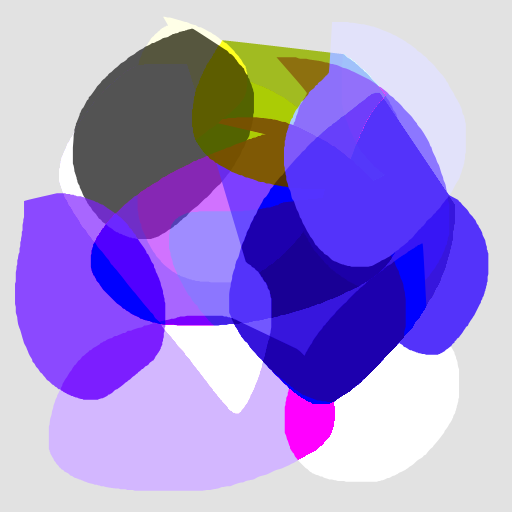
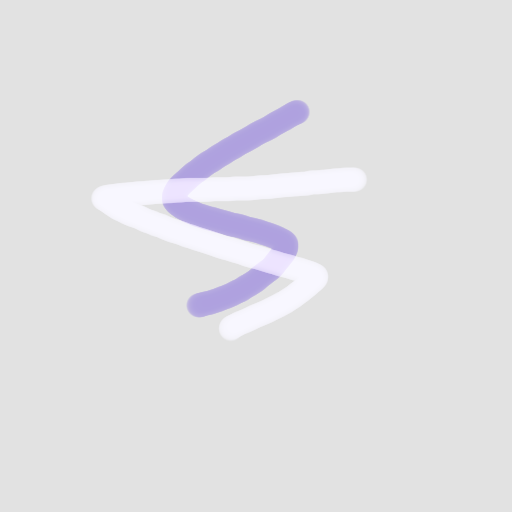
Update blend-mode fixture references

diff --git a/clip_loader.py b/clip_loader.py
@@ -15,9 +15,8 @@ v0.5 optimizations:
   鈥?Vectorized tile assembly (numpy reshape/transpose, no Python per-tile loop)
   鈥?save_png defaults to zlib level 1 (PNG cache; size cost ~10鈥?0%, much faster)
 
-Verified bit-equivalent (alpha-aware) against CSP's PNG export on:
-  - Illustration.clip   (512x512, 1 raster layer)
-  - Illustration4K.clip (4096x4096, 3 raster layers)
+Verified bit-equivalent (alpha-aware) against CSP's PNG export on the legacy
+single-layer MVP fixture and the public `Illustration4K.clip` baseline.
 """
 
 from __future__ import annotations

diff --git a/docs/analysis.md b/docs/analysis.md
@@ -3906,14 +3906,14 @@ Local verification accepted these changes. `cargo fmt --all --check` and
 `visible_px=0`; `Test_Color` remains `raw_max=1` / `visible_px=0`;
 `Test_Saturation` remains `raw_max=1` / `visible_px=0`; `Test_HSL` remains
 `raw_max=3`; `Test_AddGlowMultiply` remains `raw_max=1` / visible `0`; and
-`IllustrationBlendModes` remains `raw_max=7`. Using tracked
-`IllustrationBlendModes2.clip/png` exported from git, the current strict GPU
-output improves from the previous recorded `raw_max=8`, `visible_px=38080` to
-`raw_max=7`, `visible_px=16653`.
+`IllustrationBlendModes` remains `raw_max=7`. Using the current
+`IllustrationBlendModesB.clip/png` fixture, renamed from the old
+`IllustrationBlendModes2` sample after layer-by-layer PNG export, the current
+strict GPU output improves from the previous recorded `raw_max=8`,
+`visible_px=38080` to `raw_max=7`, `visible_px=16653`.
 
-Repository hygiene note from this review: the working tree's current
-`img/IllustrationBlendModes2.png` is not a valid CSP reference for the tracked
-`IllustrationBlendModes2.clip`; comparing against it gives `raw_max=250`.
-The working tree also contains many tracked `img/*.clip`/PNG deletions and new
-PSD/numbered PNG exports. Do not commit those assets without an explicit fixture
-cleanup decision.
+Repository hygiene decision after Rizum's fixture update: the old
+`IllustrationBlendModes2.clip` asset is removed, `IllustrationBlendModesB.*`
+is the current full-sample reference, and the numbered
+`IllustrationBlendModes*.png` plus `IllustrationBlendModesB*.png` exports are
+intentional progressive layer reveal references for future blend-mode tracing.

diff --git a/README.md b/README.md
@@ -68,13 +68,14 @@ The package script writes `clip_studio_importer.zip` and, by default, requires a
 
 ## Verification Samples
 
-The repository root contains `.clip` files and CSP-exported `.png` files used as ground truth. Important current samples include:
+The `img/` directory contains public `.clip` fixtures and CSP-exported `.png`
+ground truth. Larger client/reference files such as `Ref_*` and
+`Test_RealArt*` are local-only ignored fixtures.
 
-- `Illustration.clip/png` - single-layer MVP decode.
+Important current tracked samples include:
+
 - `Illustration4K.clip/png` - large multi-layer alpha-over baseline.
-- `Test_RealArt.clip/png` - real artwork smoke test for masks, groups, clipping, and folder semantics.
+- `IllustrationBlendModes.clip/png` and `IllustrationBlendModesB.clip/png` - blend-mode regression samples, with numbered PNG layer-reveal references.
 - `Test_ClippingEdge.clip/png` and `Test_ClippingEdge4K.clip/png` - root-level clipped edge alpha samples.
-- `Ref_Emuri_Live2D_2024.clip/png` - clipped Add Glow sample.
-- `Test_AddGlowMultiply.clip/png` - unresolved clipping group structure sample.
-- `Test_ToneCurve.clip/png` - adjustment/filter-layer regression sample.
-- `Ref_Terra404_Live2D.clip/png` - real artwork follow-up sample for mask and THROUGH group semantics.
+- `Test_AddGlowMultiply.clip/png` - clipped Add Glow plus Multiply regression sample.
+- `Test_ToneCurve.clip/png` and `Test_Gradiation.clip/png` - adjustment/filter-layer regression samples.

diff --git a/docs/native-code-architecture.md b/docs/native-code-architecture.md
@@ -409,16 +409,11 @@ Progress:
   `Test_VividLight.clip`, `Test_AddGlow.clip`, and `Test_Mask.clip` remain
   within `raw_max=1` / `premul_max=1`. `Test_AddGlowMultiply.clip` now routes
   without unsupported nodes and compares at `raw_max=5` / `premul_max=3`.
-- `IllustrationBlendModes.clip --gpu-normal-stack` and
-  `IllustrationBlendModes2.clip --gpu-normal-stack` now report
-  `unsupported=0`. C ABI comparisons remain diagnostic rather than exact:
-  `IllustrationBlendModes.png` is currently `raw_max=72`,
-  `premul_max=72`, `premul_visible_px=16946`; `IllustrationBlendModes2.png`
-  is currently `raw_max=9`, `premul_max=9`,
-  `premul_visible_px=38164`. Current trace evidence points
-  `IllustrationBlendModes.png` at a narrow Subtract -> Color Dodge -> Color Burn
-  interaction around `(266,244)` and `IllustrationBlendModes2.png` at a
-  Pin Light/Hue/Saturation chain around `(427,138)`.
+- `IllustrationBlendModes.clip --gpu-normal-stack` and the renamed
+  `IllustrationBlendModesB.clip --gpu-normal-stack` report `unsupported=0`.
+  Latest C ABI comparison metrics are tracked in `docs/AI_MEMORY.md`; this
+  older architecture note remains historical evidence for the Subtract ->
+  Color Dodge -> Color Burn and Pin Light/Hue/Saturation trace paths.
 
 Completed nineteenth milestone foundation: native adjustment/filter GPU pass.
 

diff --git a/docs/native-direct-load-rewrite.md b/docs/native-direct-load-rewrite.md
@@ -714,12 +714,11 @@ Eighteenth milestone progress:
   produces `[42,4,142,255]`, while CSP final is `[42,4,214,255]`. A simple
   near-white Color Dodge saturation threshold was rejected because exact
   counterexample pixels regress.
-- `IllustrationBlendModes2.clip --gpu-normal-stack` now reports
+- The renamed `IllustrationBlendModesB.clip --gpu-normal-stack` reports
   `unsupported=0` after adding Linear Burn, Darker/Lighter Color, Linear Light,
-  Pin Light, Exclusion, Brightness/Luminosity, and Divide. C ABI comparison
-  against `IllustrationBlendModes2.png` is currently `raw_max=9`,
-  `premul_max=9`, and `premul_visible_px=38164`. GPU prefix trace at
-  `(427,138)` identifies the residual as `PinLight -> Hue -> Saturation`.
+  Pin Light, Exclusion, Brightness/Luminosity, and Divide. Latest C ABI metrics
+  live in `docs/AI_MEMORY.md`; the GPU prefix trace at `(427,138)` identifies
+  the residual family as `PinLight -> Hue -> Saturation`.
   Raising HSL tiny-span quantization from `2/255` to `3/255` improves this
   image but regresses `Test_Saturation`, so that candidate is rejected.
 

diff --git a/docs/AI_MEMORY.md b/docs/AI_MEMORY.md
@@ -86,17 +86,17 @@ The accepted Blender add-on path is a Rust renderer core with `wgpu` GPU composi
 - Fifteenth milestone result: strict NORMAL GPU now supports clipping runs where a raster base is followed by raster clipped siblings at the same depth. `clip_runtime` packs the run as one `GpuNormalStackSource::ClippingRun`; `clip_gpu` renders the base into a white-transparent owned cache, applies clipped NORMAL siblings through a preserve-RGB pass that keeps the base alpha, then resolves the cache back through NORMAL alpha-over. `Test_Clipping.clip --gpu-normal-stack` now reports `sources=2`, `raster_resources=2`, `unsupported=0`, and host reads return real pixels. `Test_ClippingEdge.clip --gpu-normal-stack` reports `sources=1`, `raster_resources=2`, `unsupported=0`, alpha sum matches the CSP PNG, and transparent pixels stay white RGB with alpha 0.
 - Sixteenth milestone result: strict GPU now supports owned folder/container isolation for supported child stacks. `clip_gpu::GpuNormalStackSource::Container` recursively renders child sources into a white-transparent cache, then resolves that cache into the parent stack with container opacity, optional container mask, and a container blend mode. `clip_runtime` uses a recursive strict selector, treats the root container as structural pass-through, and represents non-root containers whose `LayerComposite` maps to a supported raster blend as container sources. GPU unit tests lock container-cache opacity and Multiply container resolve, selector tests lock folder source shape, and a real-raster synthetic e2e test wraps `Test_Clipping.clip`'s actual Paper/raster/clipped-raster stack in a NORMAL folder and verifies exact equality with the flat output. `clip_cli --plan-only` now prints metadata/planned nodes without triggering host render, which is useful for scanning large references.
 - Seventeenth milestone result: strict GPU now supports `LayerComposite=30` THROUGH groups. `clip_runtime` maps THROUGH containers to `GpuNormalStackSource::ThroughGroup`; `clip_gpu` renders their children against the parent stack contribution, then resolves the before/after delta with group opacity and optional mask. Verification: the GPU unit test locks opacity blending, the runtime selector test locks THROUGH source shape, `Test_FolderNested.clip --gpu-normal-stack` and `Test_FolderVisibility.clip --gpu-normal-stack` both report `unsupported=0`, and C ABI full-image comparison against CSP PNGs is `raw_max=1` / `premul_max=1`.
-- Eighteenth milestone progress: ordinary raster `LayerComposite=1` Darken, `2` Multiply, `3` Color Burn, `4` Linear Burn, `5` Subtract, `6` Darker Color, `7` Lighten, `8` Screen, `9` Color Dodge, `10` Glow Dodge, `11` Add, `12` Add Glow, `13` Lighter Color, `14` Overlay, `15` Soft Light, `16` Hard Light, `17` Vivid Light, `18` Linear Light, `19` Pin Light, `20` Hard Mix, `21` Difference, `22` Exclusion, `23` Hue, `24` Saturation, `25` Color, `26` Brightness/Luminosity, and `36` Divide are supported in the strict GPU path. `GpuNormalRasterSource` carries a blend mode; `clip_gpu` has byte-domain passes for Add Glow, Color Burn, Color Dodge, and Glow Dodge plus a standard blend-over pass for the remaining modes. The standard pass quantizes the pure blend target to the u8 grid before alpha-over except for Multiply, which keeps the unquantized W3C product so semi-transparent Multiply edges match the Python/CSP reference within one LSB; Subtract additionally keeps a one-LSB blend target for partially transparent channels where quantized source and destination are equal, matching CSP's boundary residue before Color Dodge amplification. Clipped standard preserve mirrors these Multiply and Subtract exceptions. Darker Color and Lighter Color choose source/destination with Rec.709 luma (`0.2126/0.7152/0.0722`), while Hue/Saturation/Color/Brightness HSL blend modes use CSP's sample-backed luminosity weights (`0.3/0.6/0.1`) and quantize `set_sat` tiny spans (`max-min <= 2/255`) to min/max channel membership. Hue additionally floors the final writeback for partially transparent Hue sources after the standard blend calculation and ceils the minimum channel after set_lum when the quantized base saturation span is greater than `2/255`; Saturation additionally ceils the minimum output channel after the high-end luminosity clamp only when the quantized base span is greater than `4/255`; near-neutral spans stay on the older tiny-span path. Clipping runs now allow a non-NORMAL base and all currently supported clipped raster blend modes: the base renders into its owned cache with NORMAL, clipped standard modes use the standard preserve shader, clipped Add Glow/Color Burn/Color Dodge/Glow Dodge use a byte-domain preserve shader, and the completed cache resolves to the parent through the base blend mode. Add Glow's byte-domain partial-alpha path rounds the carry term but floors the first RGB partial mix when resolving into a partial-alpha destination, keeping opaque destinations rounded. The NORMAL alpha-over pass explicitly rounds outputs to the u8 grid before writing `Rgba8Unorm`, avoiding backend-dependent UNORM truncation in later byte-domain passes. C ABI full-image comparisons against CSP PNGs: `Test_HardMix`, `Test_ColorBurn`, `Test_GlowDodge`, `Test_ColorDodge`, `Test_FolderNested`, `Test_FolderVisibility`, `Test_Clipping`, `Test_AddGlow`, and `Test_SoftLight` exact; `Test_Hue` `raw_max=1` / `premul_max=1`; `Test_Saturation` `raw_max=1` / `visible_px=0`; `Test_Color` `raw_max=1` / `visible_px=0`; `Test_VividLight` `raw_max=1` / `premul_max=1` on 111 pixels; `Test_Mask` exact; `Test_AddGlowMultiply` `raw_max=1` / `premul_max=1` / visible `0`. `IllustrationBlendModes.clip --gpu-normal-stack` and `IllustrationBlendModes2.clip --gpu-normal-stack` both report `unsupported=0`. C ABI comparisons: `IllustrationBlendModes.png` is now `raw_max=7`, `premul_max=7`, `premul_visible_px=1008`; `IllustrationBlendModes2.png` is currently `raw_max=7`, `premul_max=7`, `premul_visible_px=16653`, with the remaining max still the known Pin Light/Hue/Saturation residual rather than an exact match.
+- Eighteenth milestone progress: ordinary raster `LayerComposite=1` Darken, `2` Multiply, `3` Color Burn, `4` Linear Burn, `5` Subtract, `6` Darker Color, `7` Lighten, `8` Screen, `9` Color Dodge, `10` Glow Dodge, `11` Add, `12` Add Glow, `13` Lighter Color, `14` Overlay, `15` Soft Light, `16` Hard Light, `17` Vivid Light, `18` Linear Light, `19` Pin Light, `20` Hard Mix, `21` Difference, `22` Exclusion, `23` Hue, `24` Saturation, `25` Color, `26` Brightness/Luminosity, and `36` Divide are supported in the strict GPU path. `GpuNormalRasterSource` carries a blend mode; `clip_gpu` has byte-domain passes for Add Glow, Color Burn, Color Dodge, and Glow Dodge plus a standard blend-over pass for the remaining modes. The standard pass quantizes the pure blend target to the u8 grid before alpha-over except for Multiply, which keeps the unquantized W3C product so semi-transparent Multiply edges match the Python/CSP reference within one LSB; Subtract additionally keeps a one-LSB blend target for partially transparent channels where quantized source and destination are equal, matching CSP's boundary residue before Color Dodge amplification. Clipped standard preserve mirrors these Multiply and Subtract exceptions. Darker Color and Lighter Color choose source/destination with Rec.709 luma (`0.2126/0.7152/0.0722`), while Hue/Saturation/Color/Brightness HSL blend modes use CSP's sample-backed luminosity weights (`0.3/0.6/0.1`) and quantize `set_sat` tiny spans (`max-min <= 2/255`) to min/max channel membership. Hue additionally floors the final writeback for partially transparent Hue sources after the standard blend calculation and ceils the minimum channel after set_lum when the quantized base saturation span is greater than `2/255`; Saturation additionally ceils the minimum output channel after the high-end luminosity clamp only when the quantized base span is greater than `4/255`; near-neutral spans stay on the older tiny-span path. Clipping runs now allow a non-NORMAL base and all currently supported clipped raster blend modes: the base renders into its owned cache with NORMAL, clipped standard modes use the standard preserve shader, clipped Add Glow/Color Burn/Color Dodge/Glow Dodge use a byte-domain preserve shader, and the completed cache resolves to the parent through the base blend mode. Add Glow's byte-domain partial-alpha path rounds the carry term but floors the first RGB partial mix when resolving into a partial-alpha destination, keeping opaque destinations rounded. The NORMAL alpha-over pass explicitly rounds outputs to the u8 grid before writing `Rgba8Unorm`, avoiding backend-dependent UNORM truncation in later byte-domain passes. C ABI full-image comparisons against CSP PNGs: `Test_HardMix`, `Test_ColorBurn`, `Test_GlowDodge`, `Test_ColorDodge`, `Test_FolderNested`, `Test_FolderVisibility`, `Test_Clipping`, `Test_AddGlow`, and `Test_SoftLight` exact; `Test_Hue` `raw_max=1` / `premul_max=1`; `Test_Saturation` `raw_max=1` / `visible_px=0`; `Test_Color` `raw_max=1` / `visible_px=0`; `Test_VividLight` `raw_max=1` / `premul_max=1` on 111 pixels; `Test_Mask` exact; `Test_AddGlowMultiply` `raw_max=1` / `premul_max=1` / visible `0`. `IllustrationBlendModes.clip --gpu-normal-stack` and `IllustrationBlendModesB.clip --gpu-normal-stack` both report `unsupported=0`. C ABI comparisons: `IllustrationBlendModes.png` is now `raw_max=7`, `premul_max=7`, `premul_visible_px=1008`; `IllustrationBlendModesB.png` is currently `raw_max=7`, `premul_max=7`, `premul_visible_px=16653`, with the remaining max still the known Pin Light/Hue/Saturation residual rather than an exact match.
 - `clip_cli --gpu-trace-pixel <x> <y>` is a developer-only native GPU prefix tracer. It reuses the same strict GPU renderer and now prints the sampled RGBA before and after each selected top-level source, plus the source/mask pixel inputs for that source; it is diagnostic tooling, not a CPU oracle or fallback compositor.
 - `clip_cli --dump-layer-window <id> <x> <y> <radius>` is a developer-only decoded-source probe for inspecting one raster layer's source RGBA neighbourhood. It is diagnostic tooling, not a compositor, oracle, fallback, or renderer path.
 - `clip_cli --gpu-support-check` runs a metadata-only strict native stack selector and reports source/unsupported counts plus planned raster/mask resource size stats without decoding raster/mask tile pixels, creating a GPU device, or rendering an image. Its text output labels max raster/mask resources and unsupported items with `.clip` layer names when available, for example `max_raster_layer=10 [Layer 1]`; missing max layer ids display as `-`. `clip_cli --gpu-support-json` emits the same support/resource/unsupported-node data as pure JSON for automation and issue capture, including `.clip` layer names for unsupported nodes and max raster/mask resource layer ids when available. These are selector diagnostics only, not runtime fallbacks or compositor paths. A small `Test_*.clip` scan excluding large 4K/RealArt/AddGlowMultiply files currently reports no unsupported nodes; `Test_RealArt.clip` completes support-check quickly with `sources=1`, `unsupported=0`, `rasters=343`, `raster_bytes=33476800000`, `masks=6`, and `mask_bytes=150994944`. The selector now supports clipping runs where a supported non-through container/folder is the clipping base followed by raster clipped siblings; `Ref_绫音Aya_Live2D.clip --gpu-support-json` reports `unsupported_count=0` after routing that structure as `ContainerClippingRun`.
-- `clip_cli --compare-png <ref.png>` is the reusable native/CSP PNG verifier. It renders through `ClipSession::read_rgba8_region()` and reports raw plus premultiplied byte-domain max location, mean, diff-pixel, and visible-pixel metrics; it is developer verification only, not a CPU compositor, oracle, fallback, or post-processing path. Current CLI checks: `IllustrationBlendModes` `raw_max=7` / `premul_max=7`, `IllustrationBlendModes2` `raw_max=7` / `premul_max=7` / visible `16653`, `Test_AddGlowMultiply` `raw_max=1` / `premul_max=1` / visible `0`, `Illustration4K` `raw_max=1` / `raw_visible_px=0` / `premul_max=2`, `Test_ToneCurve` exact, `Test_Gradiation` `raw_max=10` / `premul_max=10`, `Test_HSL` `raw_max=3` / `premul_max=3`, `Test_HSL2` exact, `Test_HSL3`/`4`/`5` `raw_max=1`, `Test_ Grayscale` exact, `Test_Monochrome` exact, `Test_ColorDodge` exact, `Test_ColorBurn` exact, `Test_SoftLight` exact, `Test_AddGlow` exact, `Test_Clipping` exact, `Test_Hue` `raw_max=1`, `Test_Color` `raw_max=1` / `visible_px=0`, and `Test_Saturation` `raw_max=1` / `visible_px=0`.
-- Current trace evidence: `IllustrationBlendModes.clip` former max `(266,244)` is routed through `Multiply -> Overlay -> Subtract -> ColorDodge -> ColorBurn`; the key fixed step is `Subtract before=[218,203,252,255] src=[197,182,252,253] after=[23,22,3,255]`, where the blue channel keeps a one-LSB Subtract blend target because quantized source and destination are equal and the source alpha is partial. This gives `ColorDodge before=[23,22,3,255] src=[197,182,252,214] after=[88,67,214,255]` and final `ColorBurn ... final=[42,4,214,255]`, matching CSP at that pixel. The broad hypotheses remain rejected: a simple near-white Color Dodge saturation threshold would break exact pixels, a global standard-pass `256-srcA` inverse-alpha spike regressed guard pixels, and a Subtract-only `256-srcA` spike regressed `IllustrationBlendModes` (`raw_max 72 -> 86`). IDA evidence confirms ordinary `CSBitmapLayer::Render100` passes the internal blend code from `CSLayer+0x1B4` to `RenderRGB100_32bit`, and `RenderBlendModeCall_0` case `516` is the Photoshop-style Color Dodge branch while case `260` is a different custom mode; do not map case `260` to `.clip LayerComposite=9`. `IllustrationBlendModes2.clip` max still traces to `PinLight -> Hue -> Saturation`; raising HSL tiny-span quantization from `2/255` to `3/255`, switching all HSL luma to Rec.601, the earlier high-key near-neutral Hue min-channel ceil variant, PinLight byte-domain/256-alpha writeback, and standard-pass partial-alpha decrement were all rejected by guard regressions. The accepted small correction is Hue-only partial writeback floor, which fixes the former `(382,99)` red hot spot from `[174,51,250]` to `[167,51,250]` versus CSP `[166,51,250]`; the later accepted post-set_lum Hue min-channel ceil improves the full sample to `raw_max=7` while leaving a smaller Pin Light/Hue/Saturation residual.
+- `clip_cli --compare-png <ref.png>` is the reusable native/CSP PNG verifier. It renders through `ClipSession::read_rgba8_region()` and reports raw plus premultiplied byte-domain max location, mean, diff-pixel, and visible-pixel metrics; it is developer verification only, not a CPU compositor, oracle, fallback, or post-processing path. Current CLI checks: `IllustrationBlendModes` `raw_max=7` / `premul_max=7`, `IllustrationBlendModesB` `raw_max=7` / `premul_max=7` / visible `16653`, `Test_AddGlowMultiply` `raw_max=1` / `premul_max=1` / visible `0`, `Illustration4K` `raw_max=1` / `raw_visible_px=0` / `premul_max=2`, `Test_ToneCurve` exact, `Test_Gradiation` `raw_max=10` / `premul_max=10`, `Test_HSL` `raw_max=3` / `premul_max=3`, `Test_HSL2` exact, `Test_HSL3`/`4`/`5` `raw_max=1`, `Test_ Grayscale` exact, `Test_Monochrome` exact, `Test_ColorDodge` exact, `Test_ColorBurn` exact, `Test_SoftLight` exact, `Test_AddGlow` exact, `Test_Clipping` exact, `Test_Hue` `raw_max=1`, `Test_Color` `raw_max=1` / `visible_px=0`, and `Test_Saturation` `raw_max=1` / `visible_px=0`.
+- Current trace evidence: `IllustrationBlendModes.clip` former max `(266,244)` is routed through `Multiply -> Overlay -> Subtract -> ColorDodge -> ColorBurn`; the key fixed step is `Subtract before=[218,203,252,255] src=[197,182,252,253] after=[23,22,3,255]`, where the blue channel keeps a one-LSB Subtract blend target because quantized source and destination are equal and the source alpha is partial. This gives `ColorDodge before=[23,22,3,255] src=[197,182,252,214] after=[88,67,214,255]` and final `ColorBurn ... final=[42,4,214,255]`, matching CSP at that pixel. The broad hypotheses remain rejected: a simple near-white Color Dodge saturation threshold would break exact pixels, a global standard-pass `256-srcA` inverse-alpha spike regressed guard pixels, and a Subtract-only `256-srcA` spike regressed `IllustrationBlendModes` (`raw_max 72 -> 86`). IDA evidence confirms ordinary `CSBitmapLayer::Render100` passes the internal blend code from `CSLayer+0x1B4` to `RenderRGB100_32bit`, and `RenderBlendModeCall_0` case `516` is the Photoshop-style Color Dodge branch while case `260` is a different custom mode; do not map case `260` to `.clip LayerComposite=9`. `IllustrationBlendModesB.clip` max still traces to `PinLight -> Hue -> Saturation`; raising HSL tiny-span quantization from `2/255` to `3/255`, switching all HSL luma to Rec.601, the earlier high-key near-neutral Hue min-channel ceil variant, PinLight byte-domain/256-alpha writeback, and standard-pass partial-alpha decrement were all rejected by guard regressions. The accepted small correction is Hue-only partial writeback floor, which fixes the former `(382,99)` red hot spot from `[174,51,250]` to `[167,51,250]` versus CSP `[166,51,250]`; the later accepted post-set_lum Hue min-channel ceil improves the full sample to `raw_max=7` while leaving a smaller Pin Light/Hue/Saturation residual.
 - Additional IDA check: `RenderRGB100_32bit` has no pre-dispatch special case for internal `0x105`, and `RenderBlendModeCall_0` has no explicit `0x105` branch. Do not assume persisted `.clip LayerComposite=5` maps directly to core `CSLayer+0x1B4 == 0x105`; the SQL model value and core render code are separate domains and the bridge mapping remains unrecovered.
 - Current source-window evidence for `IllustrationBlendModes.clip` rejects the neighbouring-`src_b=253` hypothesis: layers `8`, `6`, and `5` all have constant source RGB `[197,182,252]` around `(266,244)`. The accepted fix is the narrower Subtract partial-equal-channel residue above, not a sampling offset, threshold, or post-processing rule.
 - Additional EXE false-trail check: `PW_FlushCoverageRowsToLayer @ 0x142653a40` and `sub_142655720 @ 0x142655720` contain a small-enum blend switch, but this is the painting/stroke coverage-row flush path. Its nearby `+0x19C/+0x1A4` fields are drawing-composite selector plus 15-bit colour/strength fields, not ordinary `PWLayer.LayerComposite`; keep it as rounding-style evidence only until a layer-render xref proves otherwise.
 - Current native renderer status: strict GPU supports Brightness/Contrast, Level Correction, Tone Curve, HSL, Color Balance, Invert/Reverse Gradient, Posterization, Threshold, and Gradient Map filter layers; unknown future filter types remain explicit unsupported work until faithful native models exist. Strict GPU raster uploads use source-sized decoded offscreen textures plus shader-side canvas offsets instead of expanding every raster source to the canvas, and raster/mask resource uploads now use `Queue::write_texture` with source row strides instead of explicit staging-buffer copy submissions. `clip_file::external` owns CHNKExta tile-blob parsing, and compressed tile blocks inflate directly into the expected output buffer instead of allocating a temporary decoded `Vec<u8>` per zlib block. Region raster/mask reads now skip empty CHNKExta tile blocks even when the requested region covers the full metadata rectangle; writers are prefilled with transparent/fill values and only compressed blocks are inflated and copied. Runtime providers precompute compressed-present tile bounds, upload only the cropped raster/mask payload, expose that crop's offset/size to streaming bounds, and mark all-empty raster sources as known empty before decode/upload. Raster source uniforms use `source_kind=2`, so shader samples outside cropped raster textures return transparent black while generated/cache textures keep transparent white. The host-facing normal render path now uses a recursive GPU source-provider executor: the main selector builds metadata-only GPU source trees/resource plans, raster and mask tiles are decoded/uploaded at point of use inside containers, clipping runs, THROUGH groups, and filters, and there is no CPU compositor fallback. Clear-only passes for the main accumulation texture and container/clipping caches stay in the same command encoder as the first real pass instead of forcing their own queue submit/poll, and streaming ping-pong texture initialization now clears both paired attachments in a single render pass. Streaming state and provider resource binding helpers are split into `stream_state.rs`, `stream_groups.rs`, and `stream_resources.rs`; the renderer retains each batch's raster, mask, LUT, and intermediate cache resources until submission, then submits after either forty-eight encoded passes or about 256 MiB of retained GPU resources. Within an active batch, duplicate raster and mask resource keys reuse the already-retained GPU cache instead of asking the provider to decode/upload again; flush clears those lookup tables with the retained resources, so one-off large-stack resources are not pinned for the whole render. Intermediate streaming flushes no longer poll/wait; queue order plus the final readback poll waits for completion. The streaming renderer reuses already-created texture views for unmasked source/mask bindings that shaders do not sample, THROUGH groups reuse the caller's parent texture view instead of creating a duplicate before view, and the main accumulator, clipping cache, container cache, and THROUGH after-cache hold paired texture views for the lifetime of each ping-pong cache instead of recreating them per source/child pass. Streaming source/cache passes maintain dirty canvas bounds and use scissored `LoadOp::Load` rendering for raster, clipping, container, and THROUGH passes so ping-pong outputs repaint only the previously dirty region plus the current source/cache bounds; solid passes and leading filter passes remain full-canvas, while masked or unmasked filter passes after bounded draws keep the existing dirty bounds and render with scissored `LoadOp::Load`. Filter uniforms carry target origins and mask origin/fill data, so masked filter passes inside cropped caches sample cropped masks at canvas-global coordinates. Known-empty source subtrees now short-circuit before allocating full-canvas container, clipping, or THROUGH ping-pong caches: metadata/activity checks classify off-canvas or all-empty raster-only stacks as empty, return an empty `RenderedStreamingCache` without a texture pair, and keep unknown/fallback providers on the old render path. `ClipSession` holds the opened `ClipContainer`, batches raster/mask/filter source metadata for the render plan, and the render/support hot paths reuse those resolved sources instead of reopening the `.clip` or rerunning source SQLite queries per provider request. Runtime GPU provider/resource-plan code lives in `clip_runtime/src/gpu_provider.rs`; public runtime errors and result/diagnostic structs live in `clip_runtime/src/error.rs` and `clip_runtime/src/results.rs`, reducing `lib.rs` toward session orchestration only. `ClipContainer` indexes external ids for constant-time CHNKExta body lookup, and `clip_file` now uses the `flate2` `zlib-rs` backend for tile inflation. `clip_file`'s crate root is now wiring/re-exports only; source reads live in `read.rs`, errors in `error.rs`, canvas placement helpers in `placement.rs`, region tile-block swizzling in `tile_region.rs`, and read/external fixtures in separate test modules. The selector can also elide an initial terminal Normal/opacity=1/no-mask container only for the main render path, leaving trace/selector diagnostics structurally unchanged. Guard samples remain stable: `Test_Clipping`, `Test_ClippingEdge`, and `Test_FolderNested` exact; `Test_Mask` exact; `Test_AddGlowMultiply` is `raw_max=1` / `premul_max=1` / visible `0`; `Test_ToneCurve` exact; `Test_Gradiation` remains `raw_max=10` / `premul_max=10`; `Test_ Grayscale` and `Test_Monochrome` exact. `Test_RealArt.clip --gpu-support-check` is fully routed (`unsupported=0`, `rasters=343`, `masks=6`), and release `--compare-png` against `Test_RealArt.png` remains stable without wgpu OOM at `raw_max=5` / `premul_max=2` in 3.466s on this machine after compressed-tile sparse decode/upload. `Ref_Terra404_Live2D.clip` also renders without wgpu OOM in 4.756s with `premul_max=5`. Atlas-backed raster-run pass collapse is now active for consecutive eligible unmasked Normal/standard raster sources, including non-zero-origin cropped container caches; masks, clipping-run nodes, filters, THROUGH groups, containers as source nodes, and byte-domain special blends remain semantic barriers on the existing pass path. The next quantity-level performance target is fuller atlas-backed raster/mask tile storage plus mask/clipping tile events, not CPU fallback or post-processing. Do not directly wire recovered `RenderBlendModeCall` case numbers into ordinary raster layers without verified `.clip LayerComposite` mapping and guard samples, and do not add CPU compositing fallback.
-- Native clipping parity now represents clipped siblings as `GpuClippedStackSource`, with both raster and container/folder variants. The selector, support-check path, streaming provider renderer, and direct/debug GPU path all render a clipped container sibling by first recursively rendering its child stack into a normal isolated cache and then compositing that result into the clipping base cache. This follows CSP's group-render rule instead of sample, layer-name, or file-name special cases. A metadata-only scan of all 35 current `img/*.clip` fixtures reports `unsupported=0`; `Ref_绫音Aya_Live2D.clip` reports `unsupported_count=0`, and the `Ref_Kabi_Live2D` full render comparison now routes the formerly unsupported clipped-folder sibling path.
+- Native clipping parity now represents clipped siblings as `GpuClippedStackSource`, with both raster and container/folder variants. The selector, support-check path, streaming provider renderer, and direct/debug GPU path all render a clipped container sibling by first recursively rendering its child stack into a normal isolated cache and then compositing that result into the clipping base cache. This follows CSP's group-render rule instead of sample, layer-name, or file-name special cases. A metadata-only scan of the current public/local `img/*.clip` fixtures reports `unsupported=0`; `Ref_绫音Aya_Live2D.clip` reports `unsupported_count=0`, and the `Ref_Kabi_Live2D` full render comparison now routes the formerly unsupported clipped-folder sibling path.
 - Runtime blend-mode selection is split out of `clip_runtime/src/lib.rs`: `clip_runtime/src/blend.rs` owns strict raster blend-mode selection and GPU blend-mode mapping, while `lib.rs` continues moving toward session orchestration and render execution wiring.
 - Native production large-file debt has been reduced around the former hot spots. `clip_runtime/src/lib.rs` is now session construction/accessor wiring, with runtime GPU entry points in `gpu_api.rs`, host region reads in `region.rs`, strict selector traversal/planning split across `selector_tree.rs`, `selector_gpu.rs`, `selector_gpu_resources.rs`, `selector_strict.rs`, and `selector_strict_decode.rs`, and metadata-only support checks split across `support.rs`, `support_select.rs`, and `support_checks.rs`. `clip_gpu/src/pass.rs` is now direct raster-copy/pass-module wiring, with direct/debug normal-stack execution split into `pass_normal.rs`, `pass_normal_encode.rs`, `pass_clipping.rs`, `pass_container.rs`, `pass_through.rs`, and shared pass helpers in `pass_pipeline.rs`. The remaining >500-line Rust files in these two crates are test-only files (`session_tests.rs`, `pass_tests.rs`), not production renderer modules.
 - High-leverage performance investigation has a metadata/block-level validator: `clip_cli --tile-silo-estimate [--tile-size <px>]`. It does not initialize wgpu or decode pixels; it reuses the strict native GPU source tree and inspects CHNKExta tile block headers to separate compressed tiles from empty tiles. Large-sample validation says `.clip` raster metadata is often canvas-sized while actual compressed occupancy is tiny: `Test_RealArt.clip` has `131712` metadata raster tile events but only `2220` compressed raster tile events across `237` active canvas tiles (`max=60`, `mean=9.37`), and `Ref_Terra404_Live2D.clip` has `326040` metadata raster tile events but only `4826` compressed raster tile events across `361` active canvas tiles (`max=123`, `mean=13.37`). The first milestone used compressed-tile bounds for sparse decode/upload; the second added atlas-backed per-tile work lists for eligible raster-run pass collapse; the third now emits runtime raster-run atlas events directly from non-empty compressed tile chunks. Details live in `docs/native-performance-investigation.md`.

diff --git a/docs/plan.md b/docs/plan.md
@@ -1,6 +1,6 @@
 # Plan
 
-Last reconciled: 2026-06-17
+Last reconciled: 2026-06-18
 
 ## Purpose
 
@@ -105,7 +105,7 @@ Current policy:
   timing, debug logging, and Developer Mode; they only report packaged native
   worker status when the worker is missing. The project-root `clip_loader.py` remains slow reference tooling for
   verification while native fidelity gaps close.
-- Strict GPU coverage status: ordinary raster blend modes `LayerComposite=1..26` plus `36` are enabled, isolated containers can resolve with supported non-NORMAL blend modes, clipping runs support non-NORMAL raster bases, container/folder clipping bases, and clipped sibling stacks whose members may be rasters or recursively rendered containers/folders. THROUGH groups clear the clip base for following clipped layers, and adjustment/filter layers now route through a dedicated GPU pass: Brightness/Contrast (`FilterLayerInfo` type `1`), Level Correction (`2`), Tone Curve (`3`), HSL (`4`, native HSV-adjust shader mode), Color Balance (`5`), Invert/Reverse Gradient (`6`), Posterization (`7`), Threshold (`8`), and Gradient Map (`9`). Unknown future filter types remain explicit unsupported filter work until faithful native models exist. A metadata-only scan of all 35 current `img/*.clip` fixtures reports `unsupported=0`, including `Ref_绫音Aya_Live2D.clip --gpu-support-json`, `Ref_Kabi_Live2D.clip --gpu-support-json`, and `Test_RealArt.clip --gpu-support-check`. These samples are fully routed but still have residual formula/quantization or performance work; distinguish native/Python parity from shared Python/CSP residuals before changing shaders, and improve correctness only with source-backed native evidence and guard samples.
+- Strict GPU coverage status: ordinary raster blend modes `LayerComposite=1..26` plus `36` are enabled, isolated containers can resolve with supported non-NORMAL blend modes, clipping runs support non-NORMAL raster bases, container/folder clipping bases, and clipped sibling stacks whose members may be rasters or recursively rendered containers/folders. THROUGH groups clear the clip base for following clipped layers, and adjustment/filter layers now route through a dedicated GPU pass: Brightness/Contrast (`FilterLayerInfo` type `1`), Level Correction (`2`), Tone Curve (`3`), HSL (`4`, native HSV-adjust shader mode), Color Balance (`5`), Invert/Reverse Gradient (`6`), Posterization (`7`), Threshold (`8`), and Gradient Map (`9`). Unknown future filter types remain explicit unsupported filter work until faithful native models exist. A metadata-only scan of the current public/local `img/*.clip` fixtures reports `unsupported=0`, including `Ref_绫音Aya_Live2D.clip --gpu-support-json`, `Ref_Kabi_Live2D.clip --gpu-support-json`, and `Test_RealArt.clip --gpu-support-check`. These samples are fully routed but still have residual formula/quantization or performance work; distinguish native/Python parity from shared Python/CSP residuals before changing shaders, and improve correctness only with source-backed native evidence and guard samples.
 - HSL filter payload mapping is now sample-backed separately from the native
   per-pixel routine: the SQLite payload uses UI-degree hue plus UI-percent
   saturation/luminosity for the current `Test_HSL*` fixtures, while the GPU
@@ -148,7 +148,7 @@ Current policy:
 - Native raster extraction now applies render offscreen placement through `LayerRenderOffscrOffsetX/Y`, matching the existing mask placement model and the known `Ref_Terra404_Live2D` negative-X render sources. This removes a structural decode gap before further large-reference GPU work.
 - Native raster extraction now decodes full-color, grayscale, and monochrome raster tile streams. `Test_ Grayscale.clip` and `Test_Monochrome.clip` route through the strict GPU path and compare exactly against CSP PNGs.
 - Native support diagnostics use a metadata-only strict selector. `clip_cli --gpu-support-check` validates graph, raster source, mask source, and LUT-filter support without tile decode, GPU initialization, or rendering, and labels resource/unsupported layer ids with layer names when available. `clip_cli --gpu-support-json` emits the same support/resource/unsupported-node data as pure JSON for automation and issue capture, also carrying layer names when available. Other CLI plan, resource, stack, unsupported, and trace diagnostics should use the same layer-label helper so layer ids are easy to map back to Blender support reports. These commands must remain diagnostics only, not fallback renderers.
-- `clip_cli --gpu-trace-pixel <x> <y>` is available for native GPU prefix tracing and now includes per-source before/after/input pixels. `IllustrationBlendModes.clip` keeps a one-LSB Subtract blend target for partially transparent equal source/destination channels before Color Dodge/Color Burn, reducing that sample to `raw_max=7`. `IllustrationBlendModes2.clip` now floors partial Hue writeback and ceils Hue's minimum channel after set_lum when the quantized base saturation span is greater than `2/255`, improving the full sample to `raw_max=7` / visible `16653`. Rejected broad fixes such as global `256-srcA`, HSL tiny-span `3/255`, Rec.601 HSL luma for Hue/Saturation/Color, the earlier high-key near-neutral Hue ceil variant, PinLight byte-domain/256-alpha writeback, and standard-pass partial-alpha decrement remain evidence only.
+- `clip_cli --gpu-trace-pixel <x> <y>` is available for native GPU prefix tracing and now includes per-source before/after/input pixels. `IllustrationBlendModes.clip` keeps a one-LSB Subtract blend target for partially transparent equal source/destination channels before Color Dodge/Color Burn, reducing that sample to `raw_max=7`. `IllustrationBlendModesB.clip` now floors partial Hue writeback and ceils Hue's minimum channel after set_lum when the quantized base saturation span is greater than `2/255`, improving the full sample to `raw_max=7` / visible `16653`. Rejected broad fixes such as global `256-srcA`, HSL tiny-span `3/255`, Rec.601 HSL luma for Hue/Saturation/Color, the earlier high-key near-neutral Hue ceil variant, PinLight byte-domain/256-alpha writeback, and standard-pass partial-alpha decrement remain evidence only.
 - Do not reintroduce the Python compositor/loader or sidecar PNG implementation into the installable add-on.
 - This direction is about flattened raster loading only; it does not restore vector, bubble/frame, or text renderer compatibility.
 